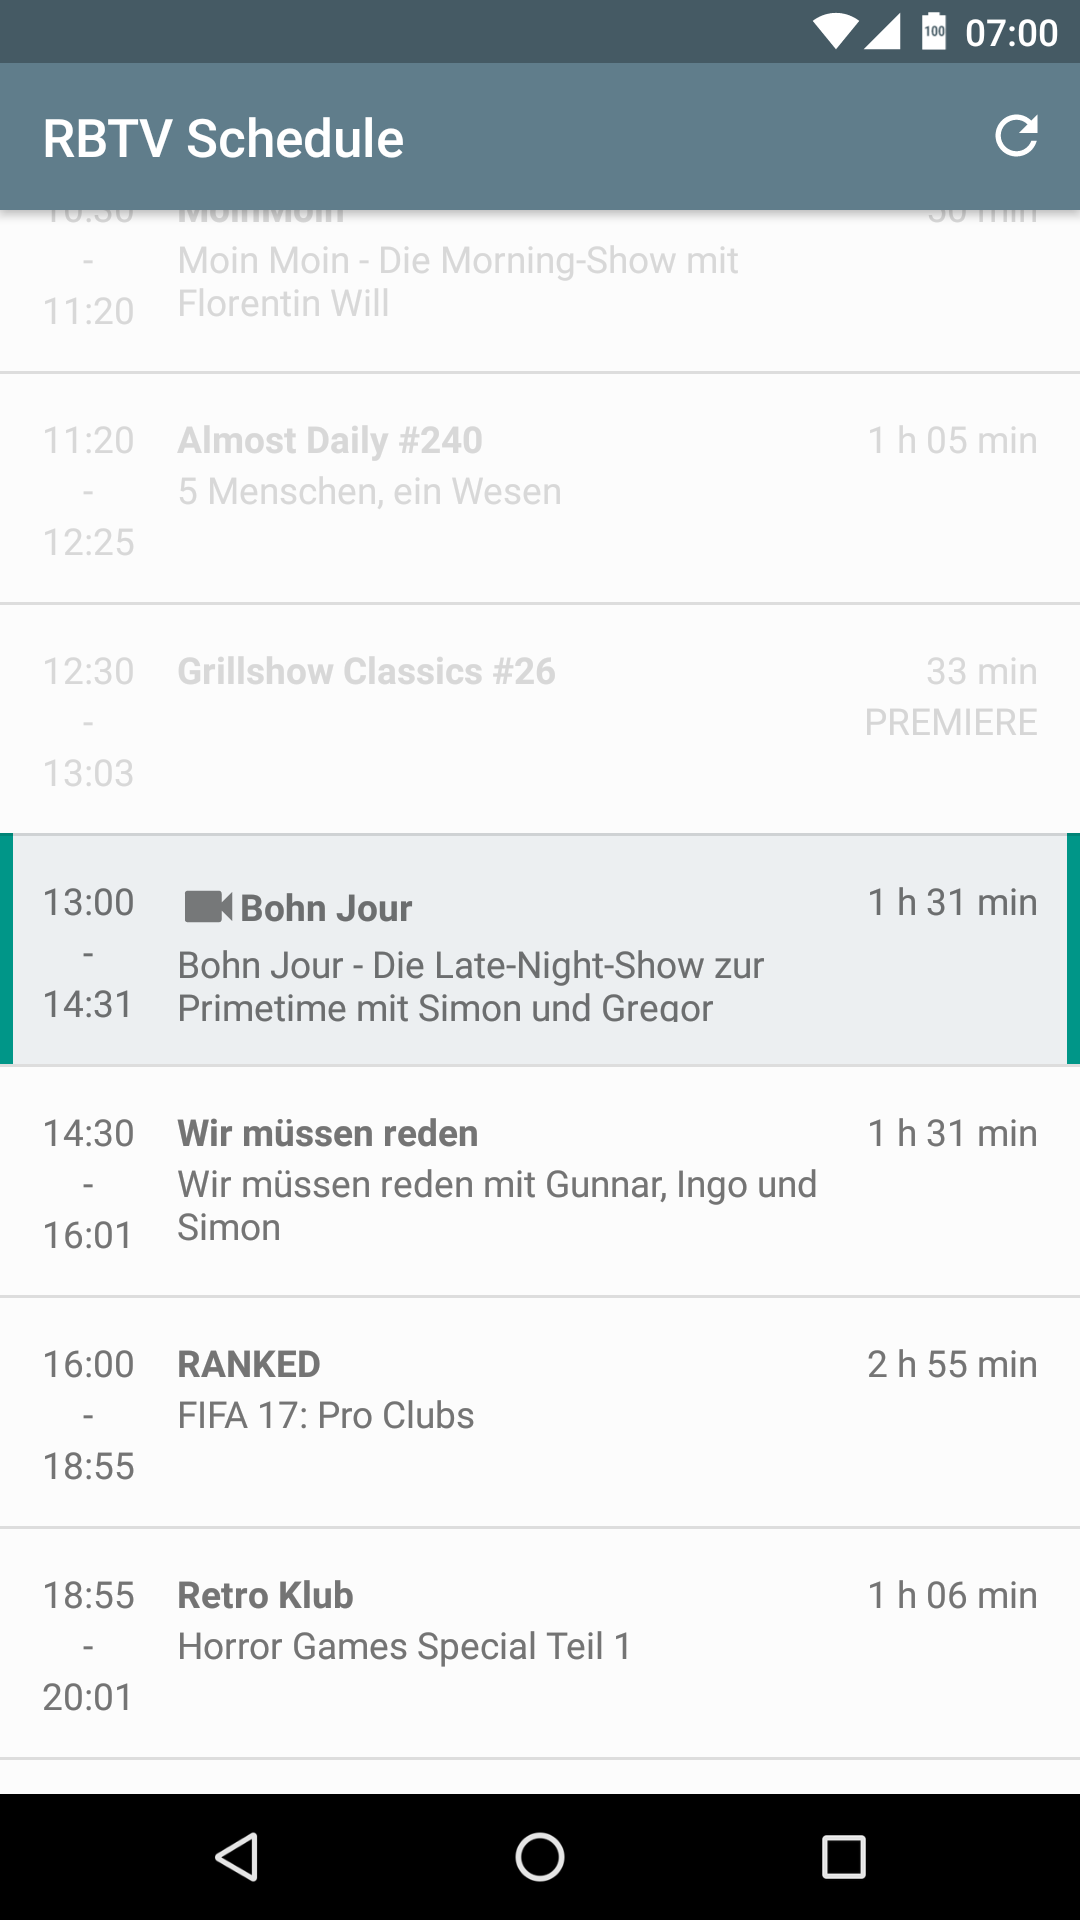
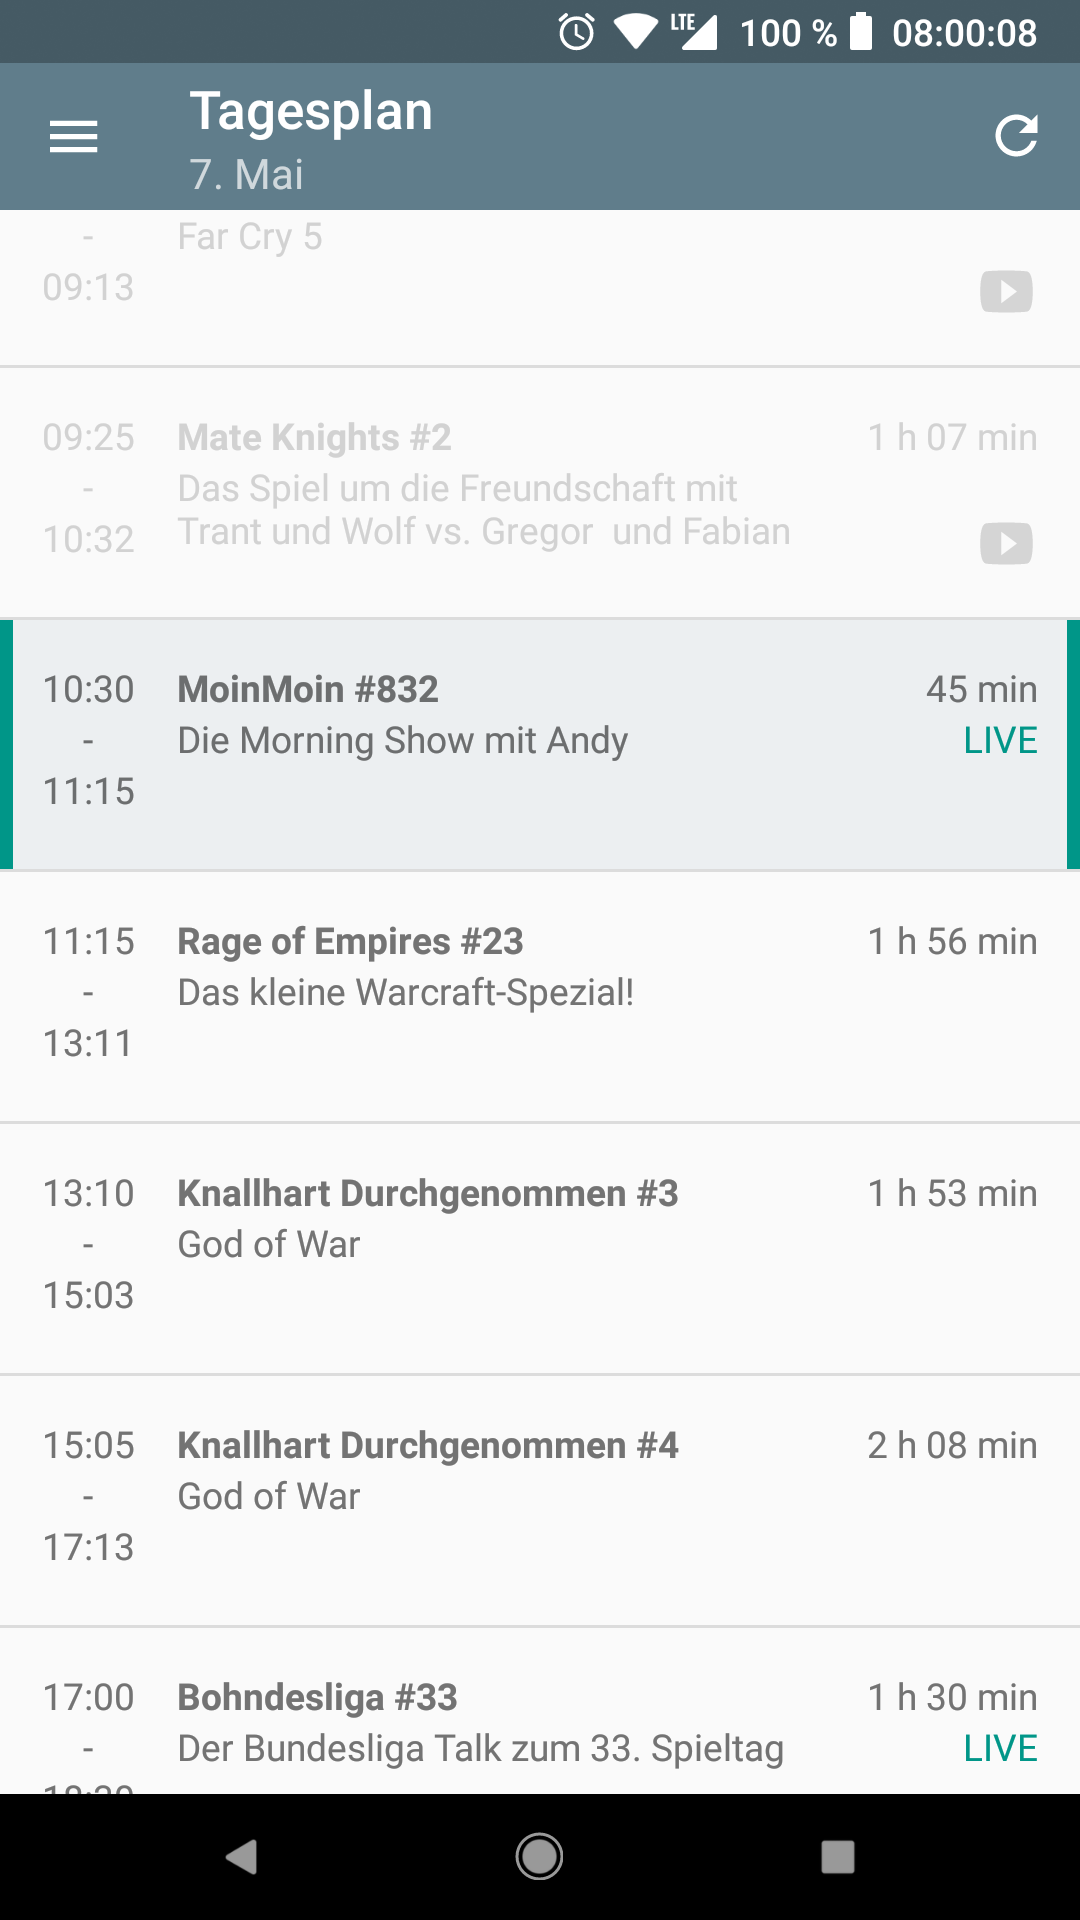
Update README.md Update screenshots
Move web launcher icon

Update README.md
Update README.md

diff --git a/README.md b/README.md
@@ -1,20 +1,52 @@
-# RBTV Schedule
+<img src="/misc/ic_launcher-web.png" width="20%" align="left" hspace="1" vspace="1">
 
-**RBTV Schedule** is an Android app which downloads and shows the daily and weekly schedules of the online streaming station [Rocketbeans TV](https://www.rocketbeans.tv/).
+# Beans Plan
+
+**Beans Plan** is an Android app which downloads and shows the daily and weekly schedules of the online streaming station [Rocketbeans TV](https://www.rocketbeans.tv/).
 The schedule data is used from <http://api.rbtv.rodney.io>.
 
+</br>
+
 ## Screenshots
+Tagesplan
+
 <img src="/screenshots/screenshot_daily_schedule.png" width="40%">
 
+Wochenplan
+
+<img src="/screenshots/screenshot_weekly_schedule.png" width="40%">
+
 ## Used patterns and libraries
-The app uses MVVM pattern and various libraries, including:
+The app utilizes MVVM pattern, Android LiveData, ViewModel, Data Binding, and various libraries, including:
 * [Retrofit](https://square.github.io/retrofit/)
 * [Gson](https://github.com/google/gson)
+* [commons-lang](https://github.com/apache/commons-lang)
 
 ## Current Features
 * Download and show daily and weekly schedules
+* Cache schedules for offline usage
+* Go to current day in weekly schedule
 * Highlight current running show
 
 ## Planned features
-* Add customization options (e.g. hide past shows)
-* Add Android Wear app
+* Customization options (e.g. hide past shows)
+* Android Wear app
+* Widget
+* App Short Cuts
+* Filter by program type
+* Detail view for shows
+* Possibly dark theme
+
+## License
+
+    Licensed under the Apache License, Version 2.0 (the "License");
+    you may not use this file except in compliance with the License.
+    You may obtain a copy of the License at
+
+       http://www.apache.org/licenses/LICENSE-2.0
+
+    Unless required by applicable law or agreed to in writing, software
+    distributed under the License is distributed on an "AS IS" BASIS,
+    WITHOUT WARRANTIES OR CONDITIONS OF ANY KIND, either express or implied.
+    See the License for the specific language governing permissions and
+    limitations under the License.
